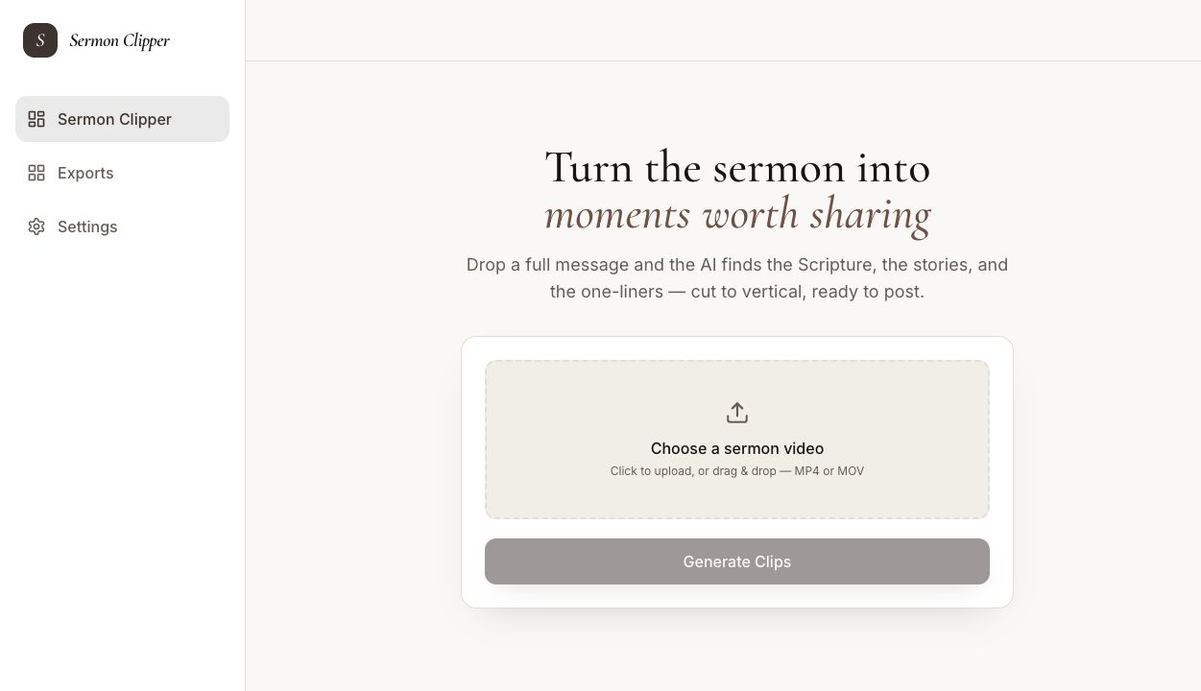
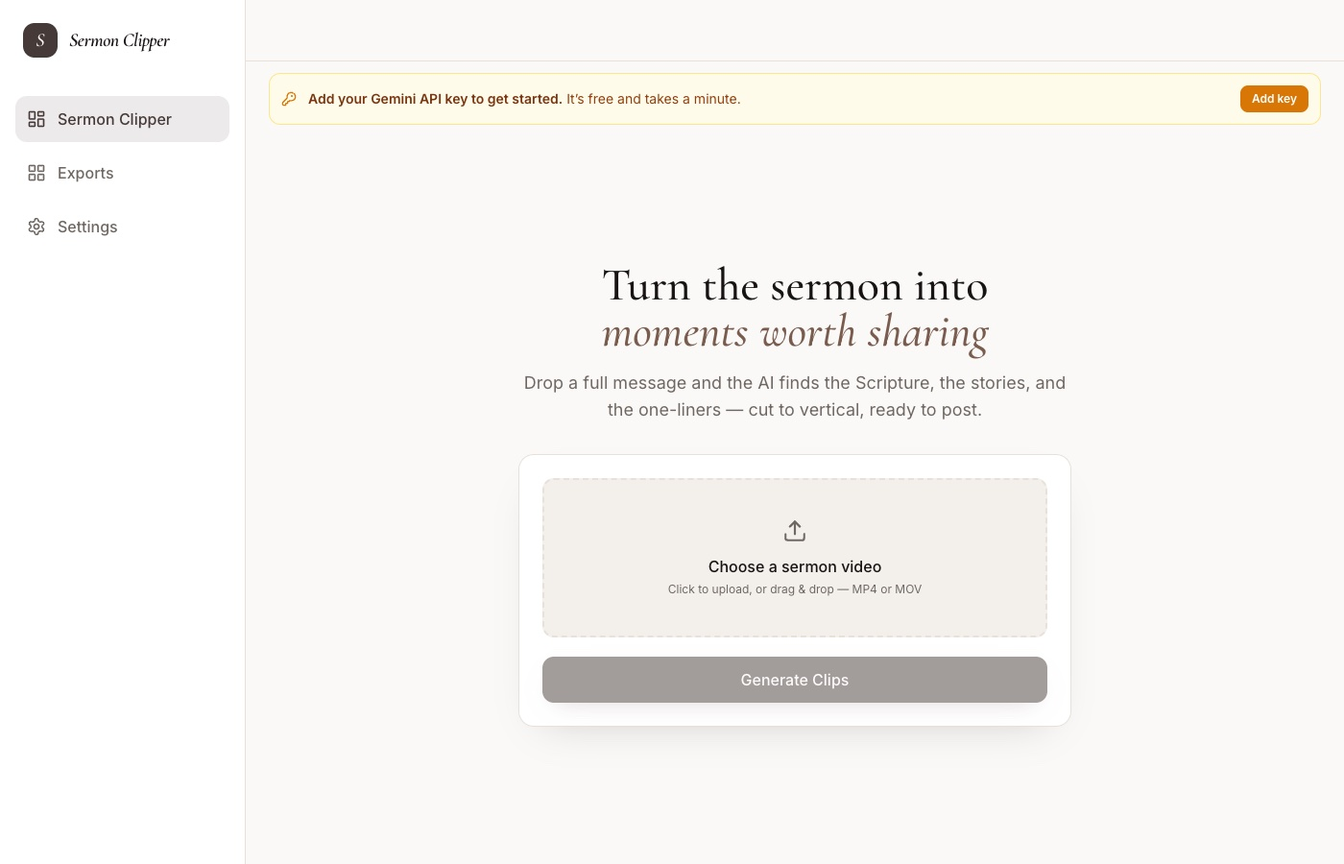
Add SermonNoteClipper tabs, captured from the app running locally
Served the prebuilt dashboard bundle rather than standing up Docker, which
was enough to reach the real UI: the launcher, the clipper workspace with
its sidebar, and the Settings tab.

Settings is the most useful of the three. It shows keys being entered by
the operator and kept in the browser, never on a server, which is the
decision that lets this ship as something a volunteer installs rather
than a service someone has to run.

The Exports tab is not included. It reads from the FastAPI backend, and
that backend needs torch, ultralytics and mediapipe, several gigabytes
whose ARM64 wheels are not guaranteed. Without it the tab renders "Could
not load exports", and with it the list would be empty anyway.

Gallery total is now 22 images across nine projects.

diff --git a/index.html b/index.html
@@ -800,7 +800,7 @@ img{max-width:100%;display:block}
 
 
   /* ---------- Project detail content ---------- */
-  var PROJECTS = {"family-ops":{"kicker":"Production web app &#183; Cloudflare","title":"Family Ops Dashboard","images":[["assets/myla-history.jpg","History: one real day at 21 feeds, 10 diapers and 13h 43m of sleep, with a 24 hour timeline and the full event log."],["assets/myla-today.jpg","Today, in the night theme the app switches to after dark. One tap logging, live timers, and the sensor reporting honestly that it has been stale for four days rather than showing a confident zero."]],"note":"Captured from a local development build with the name replaced. The activity is real usage data.","what":"A private household dashboard that two people rely on every day. It replaces the usual pile of baby tracking apps with one screen that answers the only questions that matter at 3am: when was the last feed, how long has she been asleep, and is the monitor actually reporting.","how":"The whole app is a Next.js 16 project compiled to a <strong>single Cloudflare Worker</strong>, so there is no separate server to keep alive. Data lives in <strong>D1</strong> through Drizzle, photos in <strong>R2</strong>, and sign in is <strong>passkey only</strong> through WebAuthn, which means there is no password to leak, phish, or reset. A second Worker polls an Owlet sock on a <strong>Durable Object alarm loop</strong> and writes its own health into a state table.","features":["<b>One tap logging</b> for bottle, nursing, diaper, and sleep, with running timers that survive a refresh and a closed tab.","<b>Day history</b> with per day totals, a 24 hour timeline bar, and a by time or by type toggle.","<b>Age aware guidance</b> that compares the day against what is typical for her age rather than a fixed target.","<b>Milestones and growth</b> with photo upload straight to R2.","<b>Honest failure states.</b> When the sock stops reporting the app says so and shows how stale the reading is, instead of rendering a confident zero."],"note2":"<b>The discipline:</b> a 102 test suite has to pass before any commit lands. It is the piece of my work that behaves most like real production software, because two people notice within minutes when it breaks.","chips":["Next.js 16","Cloudflare Workers","D1 + Drizzle","R2","Durable Objects","Passkeys"],"link":["https://github.com/Gibbywithag/family-ops-dashboard","Public repo"]},"prediction-radar":{"kicker":"Data &#183; signals &#183; always on","title":"Prediction Radar","images":[["assets/prediction-radar.jpg","The self graded track record, printed straight from the results file."],["assets/prediction-radar-digest.jpg","The morning report behind the noise cut: what was removed, why, and the verified before and after counts."]],"note":"","what":"An always on tracker that watches where informed money is moving in prediction markets, scores what it finds, and tells me about only the small slice worth acting on. It started because the interesting signal was real but the noise around it was unbearable: roughly 720 alerts a day, which is the same as no alerts at all.","how":"A single Python service polls <strong>Polymarket whale wallets</strong> and <strong>Kalshi exchange activity</strong>, scores each candidate on price, timing, and who is moving, then routes the survivors to Discord embeds and to <strong>AI gated iMessage alerts</strong> so only the strongest ever buzz a phone. It runs unattended under <strong>launchd</strong> and keeps everything in SQLite.","features":["<b>Signal scoring</b> that killed the categories which were losing money, including an arbitrage path running at negative ROI.","<b>Sharp Picks</b>, a high confidence subset, with a single flag to make the feed as quiet as roughly three alerts an hour.","<b>A 7am digest</b> summarising overnight activity as one calm message instead of a firehose.","<b>Automatic grading.</b> Every alert is scored against the real settlement price once its market resolves.","<b>Self monitoring</b>, so a failing job reports itself rather than going quietly silent."],"note2":"<b>The honest part:</b> 1,320 resolved positions at <b>+16.3% average ROI</b> on a 38% hit rate. A low hit rate with positive expected value is the expected shape here, and because grading is automatic the number can go down as easily as up. That is the point of keeping it.","chips":["Python","SQLite","launchd","Discord API"],"link":["https://github.com/Gibbywithag/prediction-radar","Public repo"]},"sermon-clipper":{"kicker":"AI video &#183; desktop &#183; computer vision","title":"SermonNoteClipper","images":[["assets/sermon-clipper-workspace.jpg","The workspace: drop in a full message, get back vertical clips ready to post."]],"note":"","what":"Long form sermon video in, ready to post vertical clips out, built so a church media volunteer can run it without a developer nearby. It is <strong>built on OpenShorts</strong> (MIT licensed), rebranded and rebuilt around church media work rather than general viral content.","how":"One pipeline chains the whole job: <strong>yt-dlp</strong> or a local upload, <strong>faster-whisper</strong> for word level transcription, <strong>PySceneDetect</strong> for segment boundaries, <strong>Gemini</strong> to pick the moments worth cutting, FFmpeg to extract them, then vertical reframing with <strong>MediaPipe face detection and a YOLOv8 fallback</strong>. Optional passes add burned in subtitles, hook overlays, and ElevenLabs voice dubbing.","features":["<b>Two reframing modes:</b> a stabilised single subject tracker for one speaker, and a blurred background layout for groups and wide shots.","<b>Camera stabilisation</b> that resists both jitter and rapid speaker switching when someone briefly blocks the frame.","<b>A persistent exports page</b>, added after finished clips were being deleted by an over eager cleanup job.","<b>One click installer</b> that provisions Docker, builds the stack, and opens the app.","<b>Local first by design.</b> The launcher binds to 127.0.0.1 and CORS is locked to localhost, because the API is unauthenticated and must never face a network."],"note2":"<b>What is mine:</b> 33 commits of product and hardening work on top of the upstream project. Parallelised transcription, an adversarial security audit and the fixes from it, two separate data loss bugs, export quality regressions, the exports page, the Docker packaging, and the installer. The credit to OpenShorts is in the README.","chips":["Python","FastAPI","Whisper","Gemini","YOLOv8","FFmpeg","Docker"],"link":["https://github.com/Gibbywithag/SermonNoteClipper","Public repo"]},"kalshi":{"kicker":"Fintech &#183; live systems","title":"Kalshi Quant Stack","images":[["assets/kalshi-risk.jpg","The risk and coordination dashboard: capital in play, per bot heartbeats, and live position state."]],"note":"","what":"A working stack for running automated strategies on a real prediction market exchange, with as much attention paid to stopping safely as to placing trades. Real money makes the boring parts, reconciliation, risk limits, and heartbeats, the parts that actually matter.","how":"Strategies are validated offline first through backtesting and walk forward testing, then promoted to a live executor that talks to the exchange API. A <strong>risk coordinator</strong> sits between the strategies and the exchange so several bots cannot independently decide to spend the same capital, and a React dashboard reports position state, capital in play, and per bot heartbeats.","features":["<b>Backtest and walk forward validation</b> before any strategy is allowed near live capital.","<b>Central risk coordination</b> so concurrent bots share one view of exposure.","<b>Heartbeat monitoring</b> per bot, so a silently dead process is visible rather than assumed healthy.","<b>A paper trading mode</b> that runs the identical code path against simulated fills.","<b>Documented kill paths.</b> Every bot can be stopped without leaving open positions unmanaged."],"note2":"<b>Why it stays private:</b> the repo carries live API credentials and signing keys in its working tree. It is on the site for what it demonstrates, not as something to hand out.","chips":["Python","FastAPI","React","SQLite"],"link":null},"pagetrail":{"kicker":"Mobile &#183; shipped to the App Store","title":"PageTrail","images":[["assets/pagetrail-trails.jpg","Choosing a trail. Quick Story or a customised one, then a reading level from kindergarten through 12th grade."],["assets/pagetrail-reader.jpg","The reader. Generated prose at the chosen level, with long press on any word to define it."],["assets/pagetrail-log.jpg","The trail log: words read, time spent, vocabulary learned, and every past adventure."],["assets/pagetrail-launch.jpg","Launch screen."]],"note":"","what":"A native iOS reading app that generates children's stories tuned to a chosen reading level, so a parent can produce something age appropriate in a few seconds rather than hunting for it. It went through App Store review and is live with paid subscriptions.","how":"The app is <strong>SwiftUI</strong> end to end, talking to a <strong>Cloudflare Workers</strong> backend that holds the model calls and the prompt work, so no key ever ships inside the binary. Subscriptions run on <strong>StoreKit 2</strong> with server side receipt validation.","features":["<b>Grade tuned generation</b>, so vocabulary and sentence length track the reading level rather than the topic alone.","<b>A trail log</b> that keeps what has been read and lets a child return to earlier stories.","<b>StoreKit 2 subscriptions</b> with restore flows that survive a reinstall or a new device.","<b>Keys held server side</b> in a Worker, never in the app bundle.","<b>Shipped through review</b>, which meant meeting Apple's rules for kids content, subscription disclosure, and account free use."],"note2":"<b>The honest status:</b> it is live and it works, but marketing stopped in April and at $0.99 a month it has no real pricing power. The build is not the thing that is missing.","chips":["SwiftUI","StoreKit 2","Cloudflare Workers","LLM"],"link":["https://apps.apple.com/us/app/page-trail/id6760310383","App Store"]},"clip-namer":{"kicker":"Public &#183; cross platform desktop","title":"MNN Clip Namer","images":[["assets/mnn-clip-namer-real.jpg","Review screen: proposed filenames with confidence badges before anything is renamed."]],"note":"","what":"Drag in a video clip, get back a filename that says what is actually in it. Built for a broadcast team sitting on folders of camera original filenames that tell you nothing, where naming everything by hand is the reason nobody does it.","how":"An <strong>Electron</strong> app pulls keyframes locally, sends them through a <strong>Cloudflare Worker</strong> to <strong>GPT-4o-mini Vision</strong>, and proposes a name. The Worker holds the API key, which is the point: the end user needs no account, no key, and no setup, so it can be handed to a colleague as an app rather than a project.","features":["<b>Confidence badges</b> on every proposal, so a weak guess is visibly weak rather than silently wrong.","<b>Review before rename.</b> Nothing is written to disk until it is approved.","<b>Atomic renames</b> and undo history, so a crash mid batch never leaves half renamed files.","<b>Retry with backoff</b> on the vision call, because a single flaky request should not fail a batch of eighty.","<b>CSV export</b> of the mapping, for anyone who wants the old and new names side by side."],"note2":"","chips":["Electron","TypeScript","Cloudflare Workers","OpenAI"],"link":["https://github.com/Gibbywithag/mnn-clip-namer","Public repo"]},"cutback":{"kicker":"Offline first PWA","title":"Cutback","images":[["assets/cutback-today.jpg","Home: calories remaining, one tap to re-log yesterday's foods, macros against target, and the day broken into meals."],["assets/cutback-log.jpg","Logging a portion. The item is marked verified, macros update live, and nothing saves until you confirm."],["assets/cutback-progress.jpg","Progress: the weight trend against the goal line, with the reasoning for the target written out underneath."],["assets/cutback-week.jpg","Plan: batch cook once, then each serving logs itself and counts your containers down."],["assets/cutback-coach.jpg","Coach: an assistant that already has the plan and the day's numbers, with openers for the moments people actually get stuck."]],"note":"","what":"Food, weight, habits, and check ins inside one calm daily loop. Most trackers fail at the same two points: signing up, and logging the first meal. This one has no account at all and puts four common foods on the first screen.","how":"A React <strong>progressive web app</strong> that is <strong>offline first</strong>, so everything works with no connection and reconciles later. There is no account: state lives on the device, and the optional recovery step only stores an encrypted backup you can pull to a new phone. Hosted on Cloudflare Pages.","features":["<b>No account required.</b> Open it and start, with nothing to verify by email.","<b>A starting plan</b> generated from weight, goal, and pace, presented as a starting target rather than a metabolism verdict.","<b>Offline logging</b>, so a meal logged with no signal is still there later.","<b>Photo logging</b> as an alternative to searching a food database.","<b>Optional encrypted recovery.</b> Leave the email blank and it stays device only."],"note2":"","chips":["React","PWA","Cloudflare Pages"],"link":["https://cutback.pages.dev/","Live app"]},"broll":{"kicker":"Internal tooling &#183; broadcast","title":"MNN B-Roll Library","images":[["assets/mnn-broll-library.jpg","Search across a mapped archive, with previews and a jump to the file on disk."]],"note":"","what":"A local first footage library that turns a mapped broadcast archive into something searchable. The problem was not storage, it was retrieval: editors knew the shot existed and still lost ten minutes finding it.","how":"A <strong>Flask</strong> app indexes a mapped archive into <strong>SQLite</strong> and uses <strong>FFmpeg</strong> to generate preview thumbnails. It stays local first because the archive lives on a network volume and nothing about it should need a cloud round trip.","features":["<b>Search and filters</b> across the indexed archive rather than folder names.","<b>Hover previews</b>, so a clip can be judged without opening it.","<b>One click to reveal</b> the file in its actual location on disk, which is what an editor needs next.","<b>Incremental indexing</b>, so a growing archive does not mean a full rescan.","<b>Runs entirely on the local network.</b> No upload step and no external dependency."],"note2":"<b>Why it stays private:</b> it is internal tooling tied to a specific station archive layout, so the repo is not useful outside that context.","chips":["Python","Flask","SQLite","FFmpeg"],"link":null},"autoweb":{"kicker":"Client work &#183; web","title":"SouthEast AutoWeb","images":[["assets/southeast-autoweb-real.jpg","The homepage: service storytelling above the fold with a single clear next step."],["assets/southeast-services.jpg","What we do, in four cards: materials, colour match, knowledge, and custom aerosol fills."],["assets/southeast-colormatch.jpg","The colour match section, the service the shop is actually known for."]],"note":"","what":"A client facing site for an automotive paint and equipment business. Real client work, which means the brief, the handover, and the owner not being locked out afterwards all counted as much as the build.","how":"A <strong>React and TypeScript</strong> front end built around the services the business actually sells, with the layout arranged for one clear next step rather than a general brochure. Delivered with the source in the client's hands.","features":["<b>Service led structure</b>, so the products are findable rather than buried under an about page.","<b>Conversion focused layout</b> with a single obvious action on each section.","<b>Responsive from the start</b>, since most of the traffic is on a phone in a shop.","<b>Handed over cleanly.</b> Public repo, no proprietary lock in, nothing that needs me to keep it running."],"note2":"","chips":["React","TypeScript"],"link":["https://github.com/Gibbywithag/SouthEast-AutoWeb","Public repo"]}};
+  var PROJECTS = {"family-ops":{"kicker":"Production web app &#183; Cloudflare","title":"Family Ops Dashboard","images":[["assets/myla-history.jpg","History: one real day at 21 feeds, 10 diapers and 13h 43m of sleep, with a 24 hour timeline and the full event log."],["assets/myla-today.jpg","Today, in the night theme the app switches to after dark. One tap logging, live timers, and the sensor reporting honestly that it has been stale for four days rather than showing a confident zero."]],"note":"Captured from a local development build with the name replaced. The activity is real usage data.","what":"A private household dashboard that two people rely on every day. It replaces the usual pile of baby tracking apps with one screen that answers the only questions that matter at 3am: when was the last feed, how long has she been asleep, and is the monitor actually reporting.","how":"The whole app is a Next.js 16 project compiled to a <strong>single Cloudflare Worker</strong>, so there is no separate server to keep alive. Data lives in <strong>D1</strong> through Drizzle, photos in <strong>R2</strong>, and sign in is <strong>passkey only</strong> through WebAuthn, which means there is no password to leak, phish, or reset. A second Worker polls an Owlet sock on a <strong>Durable Object alarm loop</strong> and writes its own health into a state table.","features":["<b>One tap logging</b> for bottle, nursing, diaper, and sleep, with running timers that survive a refresh and a closed tab.","<b>Day history</b> with per day totals, a 24 hour timeline bar, and a by time or by type toggle.","<b>Age aware guidance</b> that compares the day against what is typical for her age rather than a fixed target.","<b>Milestones and growth</b> with photo upload straight to R2.","<b>Honest failure states.</b> When the sock stops reporting the app says so and shows how stale the reading is, instead of rendering a confident zero."],"note2":"<b>The discipline:</b> a 102 test suite has to pass before any commit lands. It is the piece of my work that behaves most like real production software, because two people notice within minutes when it breaks.","chips":["Next.js 16","Cloudflare Workers","D1 + Drizzle","R2","Durable Objects","Passkeys"],"link":["https://github.com/Gibbywithag/family-ops-dashboard","Public repo"]},"prediction-radar":{"kicker":"Data &#183; signals &#183; always on","title":"Prediction Radar","images":[["assets/prediction-radar.jpg","The self graded track record, printed straight from the results file."],["assets/prediction-radar-digest.jpg","The morning report behind the noise cut: what was removed, why, and the verified before and after counts."]],"note":"","what":"An always on tracker that watches where informed money is moving in prediction markets, scores what it finds, and tells me about only the small slice worth acting on. It started because the interesting signal was real but the noise around it was unbearable: roughly 720 alerts a day, which is the same as no alerts at all.","how":"A single Python service polls <strong>Polymarket whale wallets</strong> and <strong>Kalshi exchange activity</strong>, scores each candidate on price, timing, and who is moving, then routes the survivors to Discord embeds and to <strong>AI gated iMessage alerts</strong> so only the strongest ever buzz a phone. It runs unattended under <strong>launchd</strong> and keeps everything in SQLite.","features":["<b>Signal scoring</b> that killed the categories which were losing money, including an arbitrage path running at negative ROI.","<b>Sharp Picks</b>, a high confidence subset, with a single flag to make the feed as quiet as roughly three alerts an hour.","<b>A 7am digest</b> summarising overnight activity as one calm message instead of a firehose.","<b>Automatic grading.</b> Every alert is scored against the real settlement price once its market resolves.","<b>Self monitoring</b>, so a failing job reports itself rather than going quietly silent."],"note2":"<b>The honest part:</b> 1,320 resolved positions at <b>+16.3% average ROI</b> on a 38% hit rate. A low hit rate with positive expected value is the expected shape here, and because grading is automatic the number can go down as easily as up. That is the point of keeping it.","chips":["Python","SQLite","launchd","Discord API"],"link":["https://github.com/Gibbywithag/prediction-radar","Public repo"]},"sermon-clipper":{"kicker":"AI video &#183; desktop &#183; computer vision","title":"SermonNoteClipper","images":[["assets/sermon-clipper-workspace.jpg","The workspace, running locally. Drop in a full message and it returns vertical clips. The banner is the real first run state: nothing works until you supply your own Gemini key."],["assets/sermon-clipper-settings.jpg","Settings. Keys are entered by the operator and stay in the browser, never on a server, which is what lets this ship as an app a volunteer can install."],["assets/sermon-clipper-landing.jpg","The launcher a church media volunteer sees first: three steps, then one button."]],"note":"","what":"Long form sermon video in, ready to post vertical clips out, built so a church media volunteer can run it without a developer nearby. It is <strong>built on OpenShorts</strong> (MIT licensed), rebranded and rebuilt around church media work rather than general viral content.","how":"One pipeline chains the whole job: <strong>yt-dlp</strong> or a local upload, <strong>faster-whisper</strong> for word level transcription, <strong>PySceneDetect</strong> for segment boundaries, <strong>Gemini</strong> to pick the moments worth cutting, FFmpeg to extract them, then vertical reframing with <strong>MediaPipe face detection and a YOLOv8 fallback</strong>. Optional passes add burned in subtitles, hook overlays, and ElevenLabs voice dubbing.","features":["<b>Two reframing modes:</b> a stabilised single subject tracker for one speaker, and a blurred background layout for groups and wide shots.","<b>Camera stabilisation</b> that resists both jitter and rapid speaker switching when someone briefly blocks the frame.","<b>A persistent exports page</b>, added after finished clips were being deleted by an over eager cleanup job.","<b>One click installer</b> that provisions Docker, builds the stack, and opens the app.","<b>Local first by design.</b> The launcher binds to 127.0.0.1 and CORS is locked to localhost, because the API is unauthenticated and must never face a network."],"note2":"<b>What is mine:</b> 33 commits of product and hardening work on top of the upstream project. Parallelised transcription, an adversarial security audit and the fixes from it, two separate data loss bugs, export quality regressions, the exports page, the Docker packaging, and the installer. The credit to OpenShorts is in the README.","chips":["Python","FastAPI","Whisper","Gemini","YOLOv8","FFmpeg","Docker"],"link":["https://github.com/Gibbywithag/SermonNoteClipper","Public repo"]},"kalshi":{"kicker":"Fintech &#183; live systems","title":"Kalshi Quant Stack","images":[["assets/kalshi-risk.jpg","The risk and coordination dashboard: capital in play, per bot heartbeats, and live position state."]],"note":"","what":"A working stack for running automated strategies on a real prediction market exchange, with as much attention paid to stopping safely as to placing trades. Real money makes the boring parts, reconciliation, risk limits, and heartbeats, the parts that actually matter.","how":"Strategies are validated offline first through backtesting and walk forward testing, then promoted to a live executor that talks to the exchange API. A <strong>risk coordinator</strong> sits between the strategies and the exchange so several bots cannot independently decide to spend the same capital, and a React dashboard reports position state, capital in play, and per bot heartbeats.","features":["<b>Backtest and walk forward validation</b> before any strategy is allowed near live capital.","<b>Central risk coordination</b> so concurrent bots share one view of exposure.","<b>Heartbeat monitoring</b> per bot, so a silently dead process is visible rather than assumed healthy.","<b>A paper trading mode</b> that runs the identical code path against simulated fills.","<b>Documented kill paths.</b> Every bot can be stopped without leaving open positions unmanaged."],"note2":"<b>Why it stays private:</b> the repo carries live API credentials and signing keys in its working tree. It is on the site for what it demonstrates, not as something to hand out.","chips":["Python","FastAPI","React","SQLite"],"link":null},"pagetrail":{"kicker":"Mobile &#183; shipped to the App Store","title":"PageTrail","images":[["assets/pagetrail-trails.jpg","Choosing a trail. Quick Story or a customised one, then a reading level from kindergarten through 12th grade."],["assets/pagetrail-reader.jpg","The reader. Generated prose at the chosen level, with long press on any word to define it."],["assets/pagetrail-log.jpg","The trail log: words read, time spent, vocabulary learned, and every past adventure."],["assets/pagetrail-launch.jpg","Launch screen."]],"note":"","what":"A native iOS reading app that generates children's stories tuned to a chosen reading level, so a parent can produce something age appropriate in a few seconds rather than hunting for it. It went through App Store review and is live with paid subscriptions.","how":"The app is <strong>SwiftUI</strong> end to end, talking to a <strong>Cloudflare Workers</strong> backend that holds the model calls and the prompt work, so no key ever ships inside the binary. Subscriptions run on <strong>StoreKit 2</strong> with server side receipt validation.","features":["<b>Grade tuned generation</b>, so vocabulary and sentence length track the reading level rather than the topic alone.","<b>A trail log</b> that keeps what has been read and lets a child return to earlier stories.","<b>StoreKit 2 subscriptions</b> with restore flows that survive a reinstall or a new device.","<b>Keys held server side</b> in a Worker, never in the app bundle.","<b>Shipped through review</b>, which meant meeting Apple's rules for kids content, subscription disclosure, and account free use."],"note2":"<b>The honest status:</b> it is live and it works, but marketing stopped in April and at $0.99 a month it has no real pricing power. The build is not the thing that is missing.","chips":["SwiftUI","StoreKit 2","Cloudflare Workers","LLM"],"link":["https://apps.apple.com/us/app/page-trail/id6760310383","App Store"]},"clip-namer":{"kicker":"Public &#183; cross platform desktop","title":"MNN Clip Namer","images":[["assets/mnn-clip-namer-real.jpg","Review screen: proposed filenames with confidence badges before anything is renamed."]],"note":"","what":"Drag in a video clip, get back a filename that says what is actually in it. Built for a broadcast team sitting on folders of camera original filenames that tell you nothing, where naming everything by hand is the reason nobody does it.","how":"An <strong>Electron</strong> app pulls keyframes locally, sends them through a <strong>Cloudflare Worker</strong> to <strong>GPT-4o-mini Vision</strong>, and proposes a name. The Worker holds the API key, which is the point: the end user needs no account, no key, and no setup, so it can be handed to a colleague as an app rather than a project.","features":["<b>Confidence badges</b> on every proposal, so a weak guess is visibly weak rather than silently wrong.","<b>Review before rename.</b> Nothing is written to disk until it is approved.","<b>Atomic renames</b> and undo history, so a crash mid batch never leaves half renamed files.","<b>Retry with backoff</b> on the vision call, because a single flaky request should not fail a batch of eighty.","<b>CSV export</b> of the mapping, for anyone who wants the old and new names side by side."],"note2":"","chips":["Electron","TypeScript","Cloudflare Workers","OpenAI"],"link":["https://github.com/Gibbywithag/mnn-clip-namer","Public repo"]},"cutback":{"kicker":"Offline first PWA","title":"Cutback","images":[["assets/cutback-today.jpg","Home: calories remaining, one tap to re-log yesterday's foods, macros against target, and the day broken into meals."],["assets/cutback-log.jpg","Logging a portion. The item is marked verified, macros update live, and nothing saves until you confirm."],["assets/cutback-progress.jpg","Progress: the weight trend against the goal line, with the reasoning for the target written out underneath."],["assets/cutback-week.jpg","Plan: batch cook once, then each serving logs itself and counts your containers down."],["assets/cutback-coach.jpg","Coach: an assistant that already has the plan and the day's numbers, with openers for the moments people actually get stuck."]],"note":"","what":"Food, weight, habits, and check ins inside one calm daily loop. Most trackers fail at the same two points: signing up, and logging the first meal. This one has no account at all and puts four common foods on the first screen.","how":"A React <strong>progressive web app</strong> that is <strong>offline first</strong>, so everything works with no connection and reconciles later. There is no account: state lives on the device, and the optional recovery step only stores an encrypted backup you can pull to a new phone. Hosted on Cloudflare Pages.","features":["<b>No account required.</b> Open it and start, with nothing to verify by email.","<b>A starting plan</b> generated from weight, goal, and pace, presented as a starting target rather than a metabolism verdict.","<b>Offline logging</b>, so a meal logged with no signal is still there later.","<b>Photo logging</b> as an alternative to searching a food database.","<b>Optional encrypted recovery.</b> Leave the email blank and it stays device only."],"note2":"","chips":["React","PWA","Cloudflare Pages"],"link":["https://cutback.pages.dev/","Live app"]},"broll":{"kicker":"Internal tooling &#183; broadcast","title":"MNN B-Roll Library","images":[["assets/mnn-broll-library.jpg","Search across a mapped archive, with previews and a jump to the file on disk."]],"note":"","what":"A local first footage library that turns a mapped broadcast archive into something searchable. The problem was not storage, it was retrieval: editors knew the shot existed and still lost ten minutes finding it.","how":"A <strong>Flask</strong> app indexes a mapped archive into <strong>SQLite</strong> and uses <strong>FFmpeg</strong> to generate preview thumbnails. It stays local first because the archive lives on a network volume and nothing about it should need a cloud round trip.","features":["<b>Search and filters</b> across the indexed archive rather than folder names.","<b>Hover previews</b>, so a clip can be judged without opening it.","<b>One click to reveal</b> the file in its actual location on disk, which is what an editor needs next.","<b>Incremental indexing</b>, so a growing archive does not mean a full rescan.","<b>Runs entirely on the local network.</b> No upload step and no external dependency."],"note2":"<b>Why it stays private:</b> it is internal tooling tied to a specific station archive layout, so the repo is not useful outside that context.","chips":["Python","Flask","SQLite","FFmpeg"],"link":null},"autoweb":{"kicker":"Client work &#183; web","title":"SouthEast AutoWeb","images":[["assets/southeast-autoweb-real.jpg","The homepage: service storytelling above the fold with a single clear next step."],["assets/southeast-services.jpg","What we do, in four cards: materials, colour match, knowledge, and custom aerosol fills."],["assets/southeast-colormatch.jpg","The colour match section, the service the shop is actually known for."]],"note":"","what":"A client facing site for an automotive paint and equipment business. Real client work, which means the brief, the handover, and the owner not being locked out afterwards all counted as much as the build.","how":"A <strong>React and TypeScript</strong> front end built around the services the business actually sells, with the layout arranged for one clear next step rather than a general brochure. Delivered with the source in the client's hands.","features":["<b>Service led structure</b>, so the products are findable rather than buried under an about page.","<b>Conversion focused layout</b> with a single obvious action on each section.","<b>Responsive from the start</b>, since most of the traffic is on a phone in a shop.","<b>Handed over cleanly.</b> Public repo, no proprietary lock in, nothing that needs me to keep it running."],"note2":"","chips":["React","TypeScript"],"link":["https://github.com/Gibbywithag/SouthEast-AutoWeb","Public repo"]}};
   /* ---------- Theme ---------- */
   function initTheme(){
     var btn = document.getElementById('theme');
